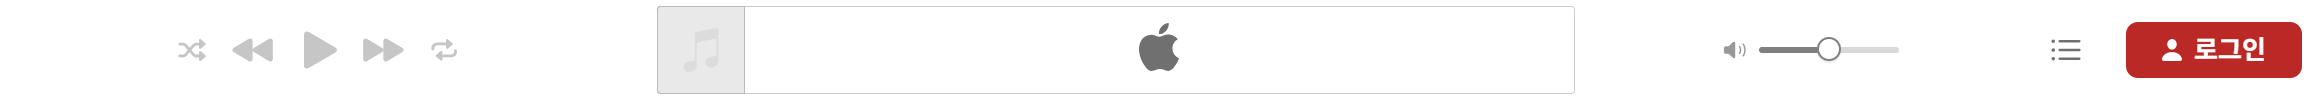
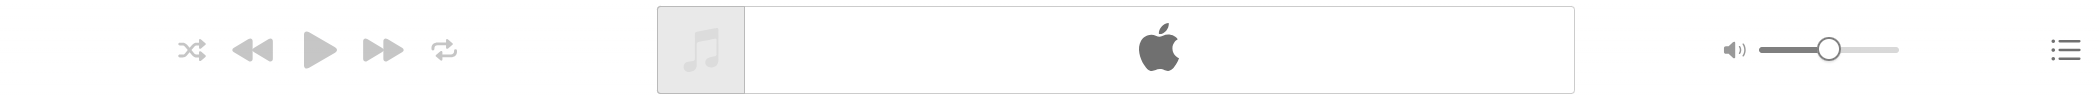
2차 약간 수정정

diff --git a/src/App.jsx b/src/App.jsx
@@ -3,6 +3,7 @@ import React from 'react'
 import Aside from './components/Aside'
 import Img from './components/Img'
 import List from './components/List'
+import Button from './components/Button'
 
 function App() {
   return (
@@ -11,16 +12,19 @@ function App() {
       <aside className="w-[230px] border-r border-gray-200 bg-[#f9f9f9]">
         <Aside />
       </aside>
-
+      <div className="w-px bg-gray-300"></div>
+      
       {/* 오른쪽 본문 영역 */}
       <main className="flex-1 flex flex-col">
+
         {/* 상단 플레이어 컨트롤러 영역 (이미지로 대체) */}
         <header className="h-[60px] border-b border-gray-200 px-6 flex items-center justify-between">
-          <img src="/banner.png" alt="상위배너" className="w-280 h-14" />
+          <img src="/banner.png" alt="상위배너" className="w-260 h-14" />
+          <Button />
         </header>
-
         {/* 메인 콘텐츠 영역 */}
         <section className="p-8 flex-1 overflow-y-auto bg-white">
+
           {/* 제목 */}
           <h2 className="text-4xl font-black mb-6">새로운 음악</h2>
           <hr className='my-2 border-gray-200'/>
@@ -29,6 +33,7 @@ function App() {
 
           {/* 최신곡 리스트 */}
           <h2 className="text-xl font-semibold mb-4 mt-8">최신곡</h2>
+          <hr className='my-2 border-gray-200'/>
           <List />
         </section>
       </main>

diff --git a/src/components/List.jsx b/src/components/List.jsx
@@ -14,20 +14,21 @@ function List() {
   return (
     <div className="grid grid-cols-3 gap-4">
       {songs.slice(0, 6).map((song, index) => (
-        <div key={index} className="flex items-center p-2 rounded hover:bg-gray-100">
-          <img
-            src={song.image}
-            alt={song.title}
-            className="w-13 h-13 object-cover rounded mr-4"
-          />
-          <div className="flex flex-col">
-            <p className="font-bold">{song.title}</p>
-            <p className="text-base text-gray-500">{song.artist}</p>
+        <div key={index} className="flex items-center justify-between p-2 rounded hover:bg-gray-100">
+          <div className="flex items-center gap-4">
+            <img
+              src={song.image}
+              alt={song.title}
+              className="w-13 h-13 object-cover rounded"/>
+            <div className="flex flex-col">
+              <p className="font-bold">{song.title}</p>
+              <p className="text-base text-gray-500">{song.artist}</p>
+            </div>
           </div>
+          <img src="/icon..png" alt="점 3개" className="w-6 h-6" />
         </div>
       ))}
     </div>
-
   )
 }
 

diff --git a/src/components/Aside.jsx b/src/components/Aside.jsx
@@ -8,13 +8,11 @@ function Aside() {
         <div className="flex items-center mb-6">
           <img src="/logo.png" alt="logo" className="w-20 h-6 mr-2" />
         </div>
-        <input
-          type="text"
-          placeholder="검색"
-          className="w-full p-2 border rounded mb-6"
-        />
-
-
+        <div className="flex items-center bg-white rounded-md px-2 py-1 shadow-sm">
+          <img src="/search.png" alt="검색 아이콘" className="w-4 h-4 mr-2" />
+          <input type="text" placeholder="검색" className="flex-1 outline-none bg-transparent text-gray-800"/>
+        </div>
+        <div className="my-4"></div>
         <div className="space-y-2 text-left text-sm">
           <div className="flex items-center space-x-2 p-2 rounded hover:bg-gray-200">
             <img src="/icon1.png" alt="icon1" className="w-4 h-4" />

diff --git a/src/components/Button.jsx b/src/components/Button.jsx
@@ -1,0 +1,12 @@
+import React from 'react'
+
+function Button() {
+  return (
+    <div className="flex items-center gap-2 bg-red-600 rounded-sm px-3 py-1">
+      <img src="/human.png" alt="인간아이콘" className="w-4 h-4" />
+      <span className="text-white font-bold">로그인</span>
+    </div>
+  )
+}
+
+export default Button
